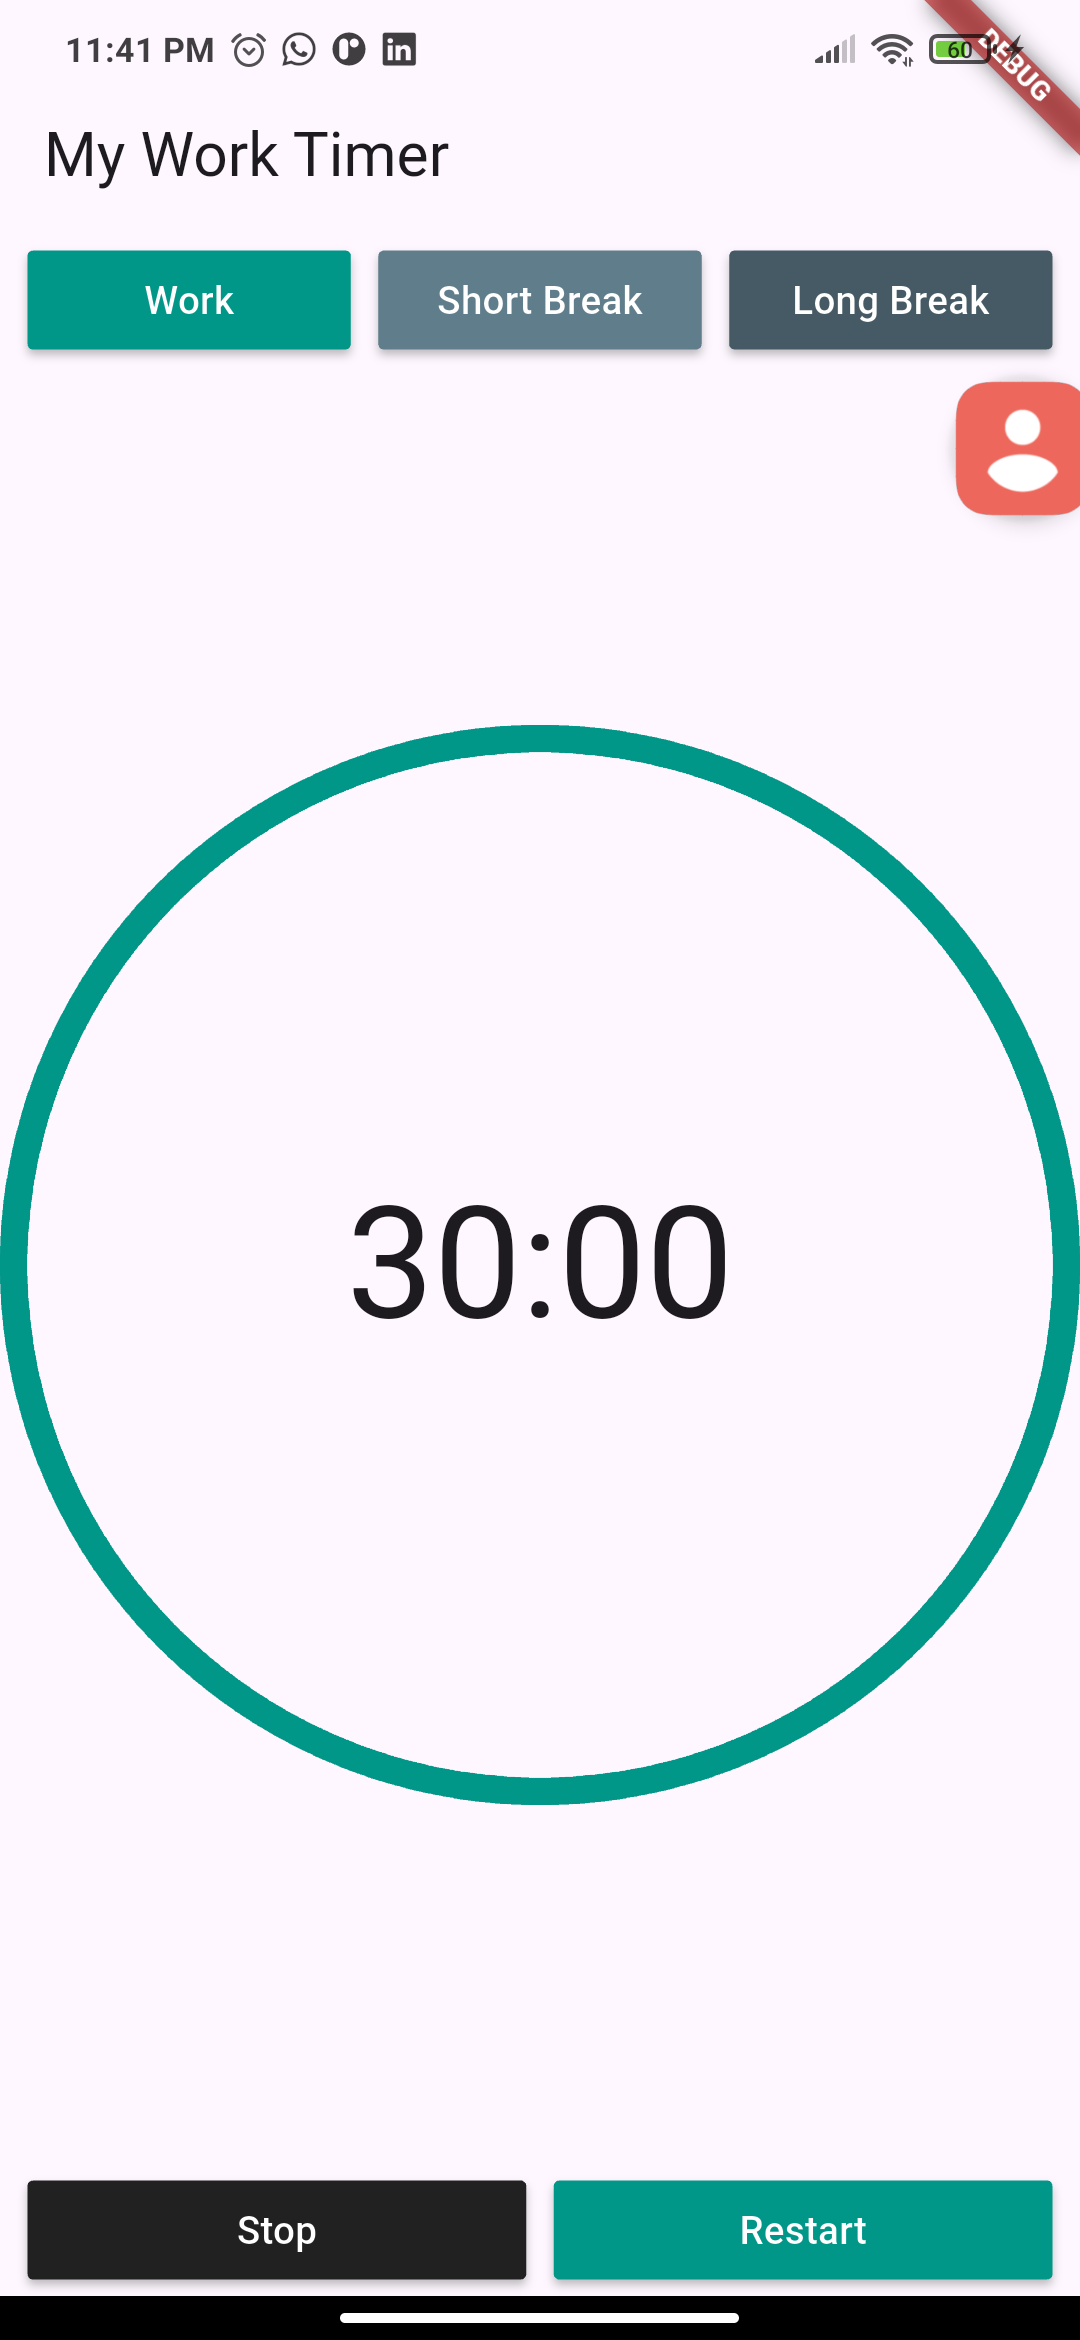
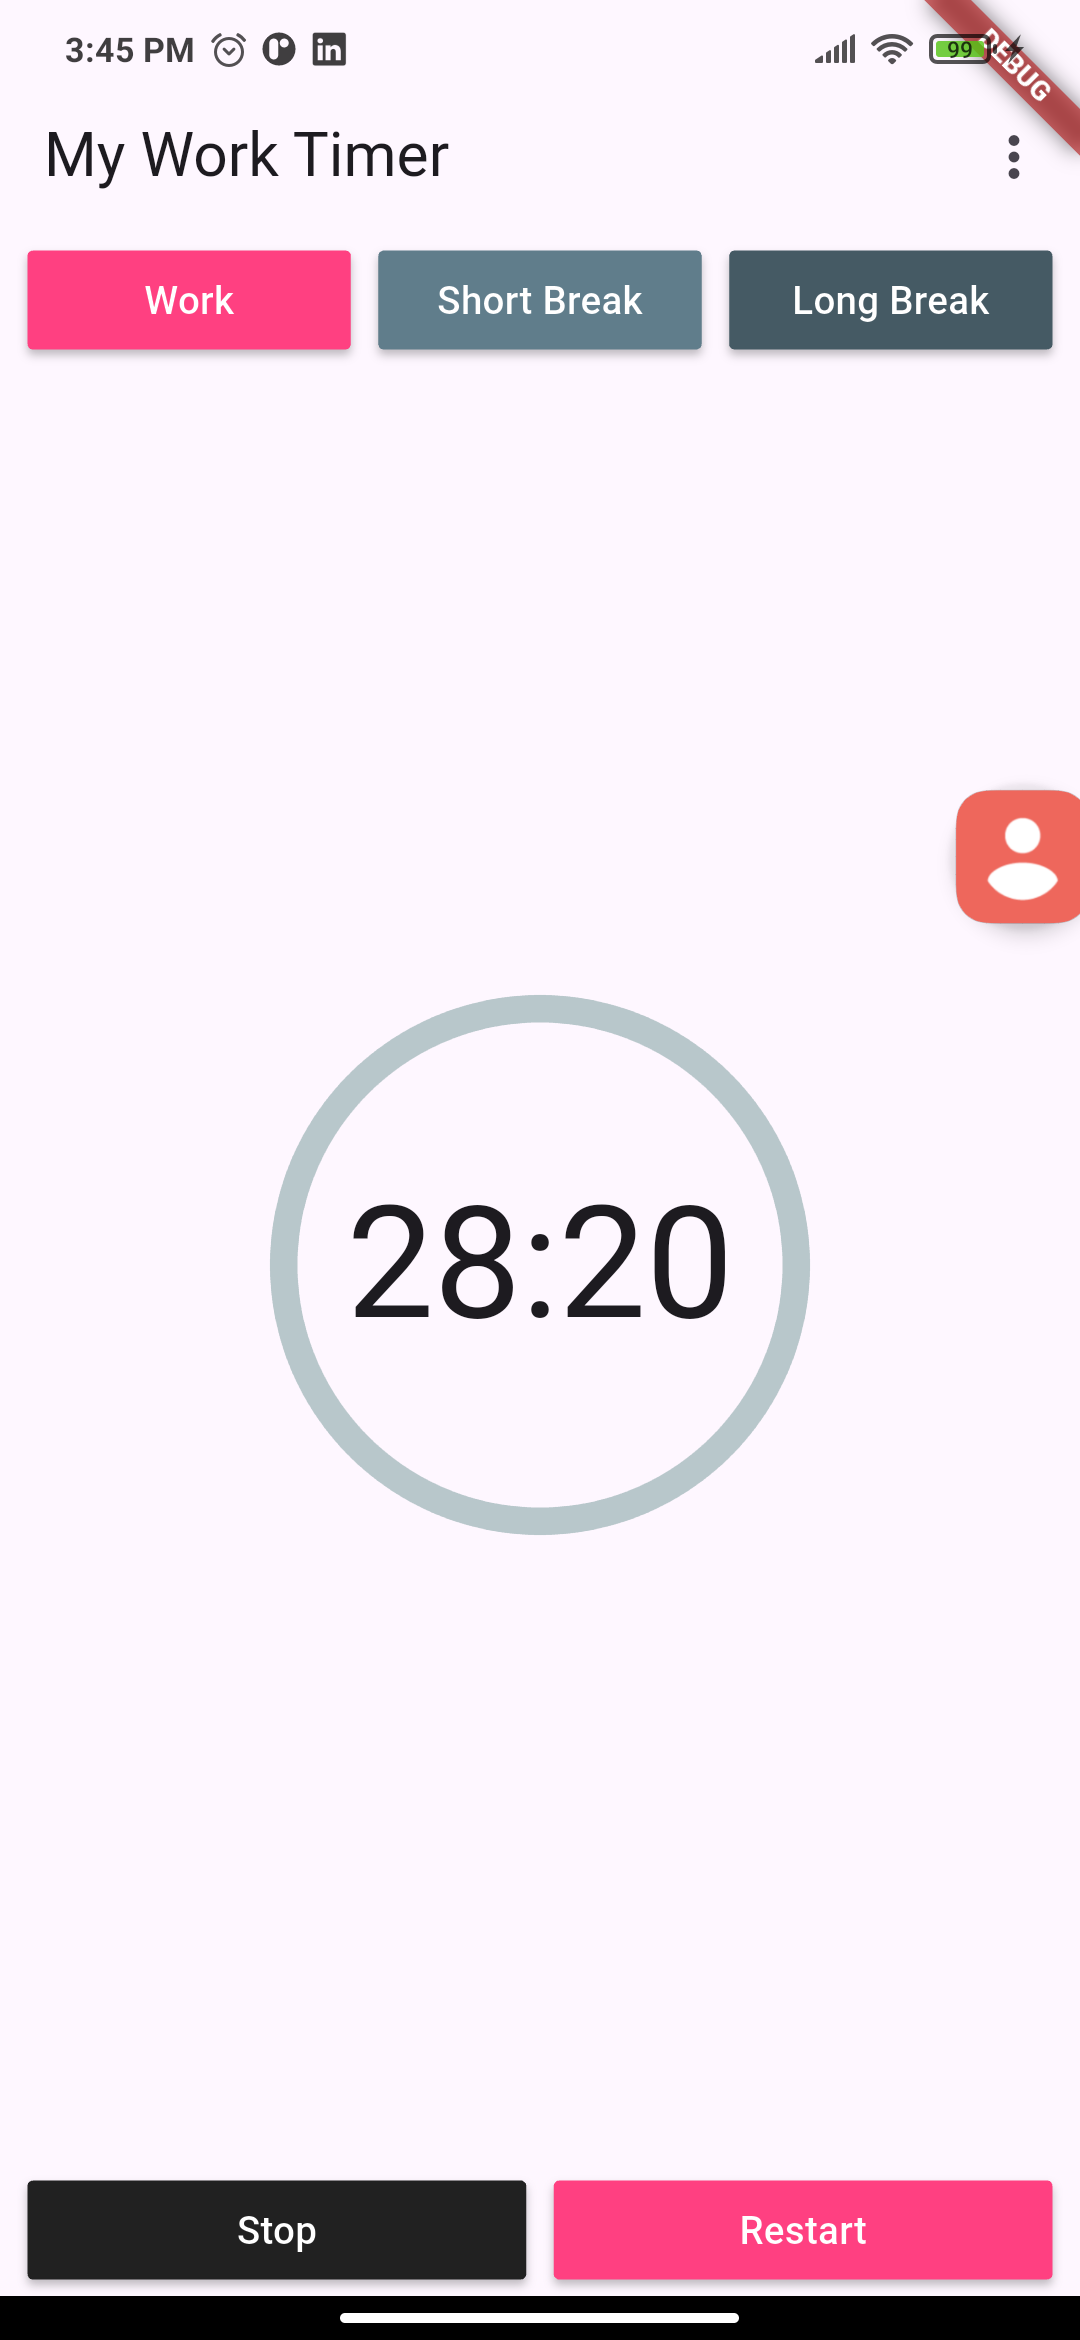
settings page finished

diff --git a/README.md b/README.md
@@ -31,3 +31,7 @@ This app is designed to help you fight distractions and maximize your cognitive 
 
 ## Timer image
 <img src="screens/screen1.png" height="740px" width="360px"/>
+
+## Settings
+<img src="screens/screen2.png" height="740px" width="360px"/>
+